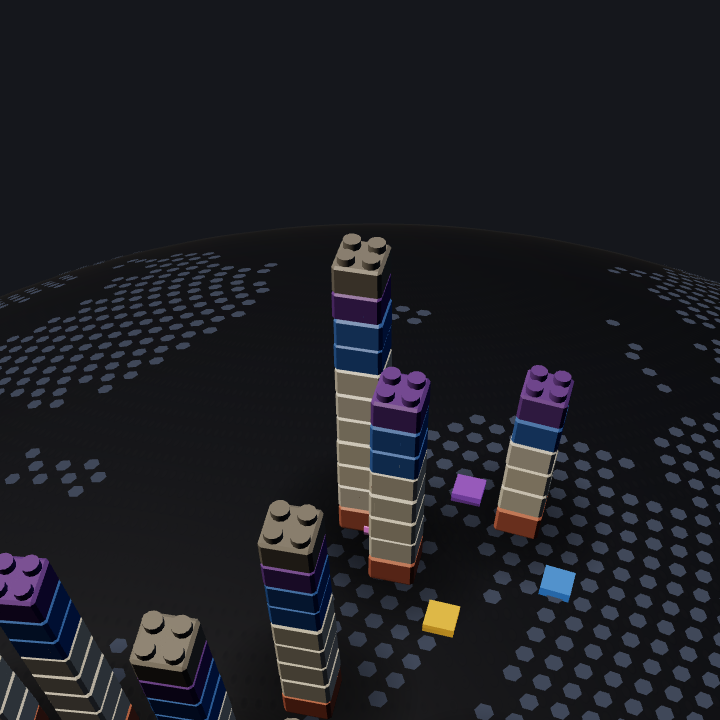
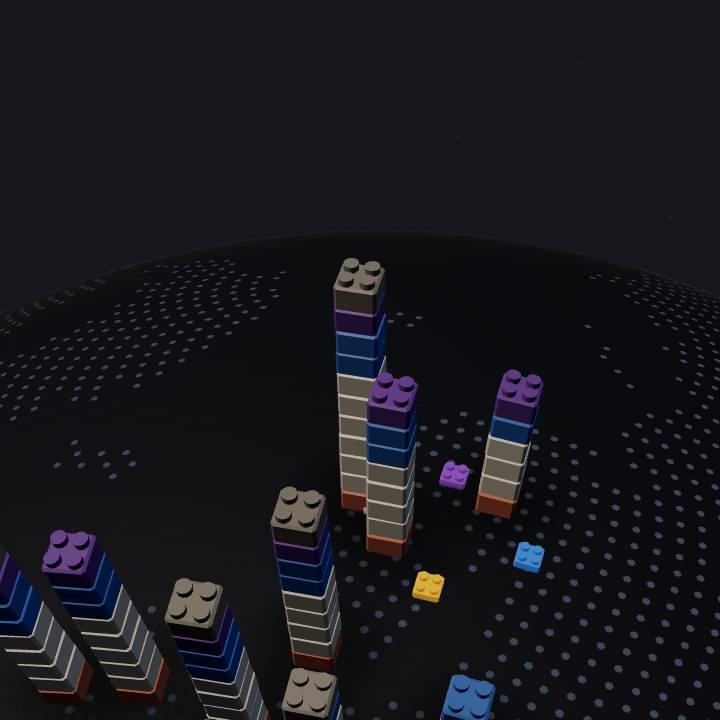
Studded data-centre bricks and a towers thumbnail on the intro
Data-centre bricks use the chamfered 2x2 geometry plus four studs (one extra
InstancedMesh sharing the material; the selection focus dims them too). The
intro shows a real view of the towers (assets/intro-towers.webp, 19 KB, from
the same capture as the OG card) and its byline names only the sources.

diff --git a/styles.css b/styles.css
@@ -235,8 +235,11 @@
   #intro{position:fixed;inset:0;z-index:20;display:flex;align-items:center;justify-content:center;overflow-y:auto;overscroll-behavior:contain;padding:12px 0;background:radial-gradient(ellipse at center,rgba(7,8,12,.55),rgba(7,8,12,.88));backdrop-filter:blur(2px);opacity:0;animation:introIn .6s var(--ease) .2s forwards;transition:opacity .4s var(--ease)}
   #intro.out{opacity:0!important;pointer-events:none}
   body.intro #title,body.intro #hint{opacity:0;transition:none}
-  .ibox{position:relative;max-width:720px;width:calc(100% - 48px);margin:auto;padding:34px 40px 26px;border:1px solid rgba(255,255,255,.16);border-radius:10px;background:#0b0b0d;box-shadow:0 30px 80px rgba(0,0,0,.6);text-align:left;overflow:hidden}
-  .ibox h2{font-size:clamp(40px,5.6vw,68px);line-height:.98;opacity:0;animation:rise .6s var(--ease) .4s forwards}
+  .ibox{position:relative;max-width:980px;width:calc(100% - 48px);margin:auto;padding:34px 40px 26px;padding-right:calc(40px + 300px);border:1px solid rgba(255,255,255,.16);border-radius:10px;background:#0b0b0d;box-shadow:0 30px 80px rgba(0,0,0,.6);text-align:left;overflow:hidden}
+  /* a real view of the towers, from the exhibit (rendered by tools/render-og.mjs), bleeding off the right edge */
+  .ibox .thumb{position:absolute;right:-70px;top:-40px;width:420px;height:420px;margin:0;pointer-events:none;opacity:0;animation:rise .8s var(--ease) .5s forwards;-webkit-mask:radial-gradient(circle at 50% 50%,#000 0 40%,rgba(0,0,0,.6) 58%,transparent 70%);mask:radial-gradient(circle at 50% 50%,#000 0 40%,rgba(0,0,0,.6) 58%,transparent 70%)}
+  .ibox .thumb img{width:100%;height:100%;object-fit:cover;display:block}
+  .ibox h2{font-size:clamp(40px,5.6vw,68px);line-height:.98;opacity:0;animation:rise .6s var(--ease) .4s forwards;position:relative}
   .ibox .hero{font-family:var(--serif);font-size:clamp(22px,2.5vw,31px);line-height:1.22;letter-spacing:0;margin:20px 0 0;color:var(--text);overflow-wrap:anywhere;opacity:0;animation:rise .6s var(--ease) .7s forwards}
   .ibox .hero b{font-weight:400;font-style:italic;color:#efe9d6}
   .ibox .hero a{color:var(--text);text-decoration:underline;text-decoration-color:rgba(255,255,255,.35);text-underline-offset:3px;text-decoration-thickness:1.5px;transition:text-decoration-color .2s}
@@ -253,7 +256,8 @@
   @keyframes introIn{to{opacity:1}}
   @keyframes shrink{to{transform:scaleX(0)}}
   @keyframes rise{from{opacity:0;transform:translateY(10px)}to{opacity:1;transform:none}}
-  @media (max-width:700px){ .ibox{padding:22px 22px 22px;width:calc(100% - 28px)} .ibox .lead{margin:14px 0 20px;padding-top:14px} .ibox .kicker span:last-child{display:none} }
+  @media (max-width:900px){ .ibox{padding-right:40px} .ibox .thumb{position:relative;right:auto;top:auto;width:calc(100% + 80px);height:170px;margin:-34px -40px 10px;-webkit-mask:linear-gradient(#000 55%,transparent);mask:linear-gradient(#000 55%,transparent)} .ibox .thumb img{object-position:50% 40%} }
+  @media (max-width:700px){ .ibox{padding:22px 22px 22px;width:calc(100% - 28px)} .ibox .thumb{width:calc(100% + 44px);margin:-22px -22px 8px;height:150px} .ibox .lead{margin:14px 0 20px;padding-top:14px} }
   @media (max-width:380px){ .ibox{padding:18px 16px 18px;width:calc(100% - 20px)} .ibox h2{font-size:36px} .ibox .hero{font-size:20px} .ibox .cta{gap:6px} #introGo{padding:10px 16px} .ibox .byline span:last-child{display:none} }
   @media (max-height:520px){ #intro{padding:8px 0} .ibox{width:calc(100% - 24px);padding:14px 22px 12px} .ibox .kicker{margin-bottom:10px;padding-bottom:8px} .ibox h2{font-size:30px} .ibox .hero{font-size:18px;margin-top:8px} .ibox .lead{font-size:14px;margin:8px 0 12px;padding-top:8px} .ibox .byline{margin-top:10px} }
   @media (prefers-reduced-motion:reduce){ #intro,.ibox .kicker,.ibox h2,.ibox .hero,.ibox .lead,.ibox .cta,.ibox .byline{animation:none;opacity:1} .ibar{display:none} }

diff --git a/js/scene.js b/js/scene.js
@@ -283,9 +283,13 @@ const setPowerMap = on => setLayer(on ? "power" : "none");
    (emissive comes from the instance colour, at most 0.3). No halos, no point lights. */
 const dcMat = new THREE.MeshStandardMaterial({roughness:0.4, metalness:0, roughnessMap: quality.tier === "high" ? noiseTex : null, flatShading: quality.tier === "low"});
 dcMat.onBeforeCompile = sh => { sh.fragmentShader = sh.fragmentShader.replace("#include <emissivemap_fragment>", "#include <emissivemap_fragment>\n#ifdef USE_COLOR\n totalEmissiveRadiance += vColor.rgb * 0.3;\n#endif"); };
+let dcStuds = null;   // four studs per data-centre brick, same material and colours (set below, once)
 const dcMesh = (() => {
-  const geo = new THREE.BoxGeometry(1,1,1); geo.translate(0,0.5,0);
+  const geo = chamferBox(0.07);
   const m = new THREE.InstancedMesh(geo, dcMat, DATA.datacentres.length);
+  const studGeoDC = new THREE.CylinderGeometry(1,1,1,12); studGeoDC.translate(0,0.5,0);
+  dcStuds = new THREE.InstancedMesh(studGeoDC, dcMat, DATA.datacentres.length*4); dcStuds.frustumCulled = false;
+  const SM = new THREE.Matrix4(), so = new THREE.Vector3(), ss = new THREE.Vector3(DC_BRICK.w*0.18, DC_BRICK.h*0.45, DC_BRICK.w*0.18), oo = DC_BRICK.w*0.25;
   const M = new THREE.Matrix4(), q = new THREE.Quaternion(), p = new THREE.Vector3(), s = new THREE.Vector3(DC_BRICK.w, DC_BRICK.h, DC_BRICK.d), up = new THREE.Vector3(0,1,0), col = new THREE.Color();
   // bricks that would sit inside their country's tower are nudged a step sideways (spread around it) so they stay visible and clickable
   const cent = new THREE.Vector3(), east = new THREE.Vector3(), north = new THREE.Vector3(), nrm = new THREE.Vector3(), off = new THREE.Vector3(), Y = new THREE.Vector3(0,1,0);
@@ -302,9 +306,11 @@ const dcMesh = (() => {
     }
     q.setFromUnitVectors(up, p.clone().normalize());
     M.compose(p, q, s); m.setMatrixAt(i, M); m.setColorAt(i, col.setHex(OPERATOR_COLOR[d.operator]).offsetHSL(0, 0.08, 0.02));
+    for (let j = 0; j < 4; j++){ so.set(j&1 ? oo : -oo, DC_BRICK.h, j&2 ? oo : -oo).applyQuaternion(q).add(p); SM.compose(so, q, ss); dcStuds.setMatrixAt(i*4+j, SM); dcStuds.setColorAt(i*4+j, col); }
     d._pos = p.clone();
   });
   m.instanceMatrix.needsUpdate = true; m.instanceColor.needsUpdate = true; world.add(m);
+  dcStuds.instanceMatrix.needsUpdate = true; dcStuds.instanceColor.needsUpdate = true; world.add(dcStuds);
   return m;
 })();
 
@@ -520,8 +526,8 @@ function targetBricks(t){
 const _dcc = new THREE.Color();
 function setDCFocus(list){
   const keep = list && list.length ? new Set(list) : null;
-  DATA.datacentres.forEach((d, i) => { _dcc.setHex(OPERATOR_COLOR[d.operator]).offsetHSL(0, 0.08, 0.02); if (keep && !keep.has(d)) _dcc.multiplyScalar(0.35); dcMesh.setColorAt(i, _dcc); });
-  dcMesh.instanceColor.needsUpdate = true;
+  DATA.datacentres.forEach((d, i) => { _dcc.setHex(OPERATOR_COLOR[d.operator]).offsetHSL(0, 0.08, 0.02); if (keep && !keep.has(d)) _dcc.multiplyScalar(0.35); dcMesh.setColorAt(i, _dcc); for (let j = 0; j < 4; j++) dcStuds.setColorAt(i*4+j, _dcc); });
+  dcMesh.instanceColor.needsUpdate = true; dcStuds.instanceColor.needsUpdate = true;
 }
 /* city towers: thin towers at a country's main cities, same height scale as country towers */
 const _cup = new THREE.Vector3(0,1,0), _ctmp = new THREE.Vector3(), _Z = new THREE.Matrix4().makeScale(0,0,0);

diff --git a/index.html b/index.html
@@ -138,11 +138,12 @@
 
 <div id="intro" role="dialog" aria-label="Welcome">
   <div class="ibox">
+    <figure class="thumb" aria-hidden="true"><img src="assets/intro-towers.webp" width="720" height="720" alt="" loading="eager" decoding="async"></figure>
     <h2>Who gets to <i>build</i> with AI?</h2>
     <p class="hero" id="heroStat">A $20 AI subscription costs <b>0.3%</b> of monthly income per person in <a href="?country=NO" data-iso="NO">Norway</a> and <b>29.7%</b> in <a href="?country=CD" data-iso="CD">DR Congo</a>. <a class="src" id="heroSrc" href="?panel=methodology" title="How this is worked out">source</a></p>
     <p class="lead">Every tower is a country. Height is how much people there use AI. Colour is whose models they're using. Glowing bricks are data centres.</p>
     <div class="cta"><button class="btn primary" id="introGo">See where you stand →</button><button class="btn ghost" id="introExplore">or explore the globe</button></div>
-    <div class="byline"><span>Tessa Verster</span><span>World Bank · Cable.co.uk · Anthropic Economic Index</span></div>
+    <div class="byline"><span>Sources</span><span>World Bank · Cable.co.uk · Anthropic Economic Index</span></div>
   </div>
 </div>
 

diff --git a/CLAUDE.md b/CLAUDE.md
@@ -8,8 +8,8 @@ Static, no-build exhibit deployed by GitHub Pages from `main` (custom domain in 
 
 ## 2. 3D rendering and the camera
 - `js/scene.js` owns everything Three.js: renderer, scene, `camera` (PerspectiveCamera, fov 38) and the `world` group that rotates.
-- Look: a hand-built tabletop model. Baseplate = deep blue-charcoal sphere (`plateMat`, #272b34) with a 512² canvas stud texture as roughness + faint bump; land = one InstancedMesh of 12,000 flat hexagonal discs (`landDots`, positions from `LAND_MASK`, 2° cells) whose colour skins the data layers (`LAYERS`, `setLayer` → `applySkin`) swap with setColorAt on toggle only; background clear colour `#15171c`, no starfield; a faint warm rim shader. Lighting: one warm key directional + one cool hemisphere, no shadows, no post-processing.
-- Towers: discrete 2×2 bricks, one instance each (`BRICKS_PER_INDEX_POINT` = MAX_BRICKS/100), chamfered geometry from `chamferBox()` (44 triangles), `brickMat` MeshStandardMaterial roughness 0.45 with a 256² noise roughnessMap on the high tier. Two InstancedMeshes (`bricks`, `studs`) shared by countries, continents and six city slots (`towers`, `cityTowers`); `writeTower` applies seeded per-brick jitter (rotation ±0.6°, offset ±1.5%, cumulative lean ≤1°, 1-in-40 proud) and `paintTower` the ±3% L / ±2% S colour variance; `stepTowers` animates with `easePlastic` (4% overshoot). `contact` is an InstancedMesh of soft dark discs under towers (fake contact shadow; spare instances reserved for arc caps). Data centres: InstancedMesh `dcMesh` with `dcMat` (emissive 0.3 from the instance colour). Arcs: `js/arcs.js` (`createArcs`) draws each route as a solid plastic tube: a Line2 from the vendored fat-line addons (`js/vendor/three-fatlines.js`, global-THREE build of three r160's examples/jsm/lines) in the operator colour at 3 px desktop / 4 px phone (`worldUnits:false`, resolution set in `resize()`), over a black outline Line2 and under a dashed seam whose `dashOffset` moves once per frame (frozen for reduced motion and on the low tier); end caps are spare `contact` instances tinted to the operator. Curve maths is pure in `js/arcMath.js` (`arcPoints`, tested by `tools/arcs.test.mjs`). Draw-in 400 ms via `instanceCount`, fade-out 180 ms, hover on a data-centre brick highlights its arc (`arcsCtl.highlight`, fine pointers). HTML labels in `#arcLabels` ride on the far end of each arc (operator · city · why, or the country name) with an italic caption at the start; hidden behind the horizon and under the panel/sheet. The thin off-white selection `ring` completes the scene.
+- Look: a hand-built tabletop model. Baseplate = deep blue-charcoal sphere (`plateMat`, #272b34) with a 512² canvas stud texture as roughness + faint bump; land = one InstancedMesh of 12,000 flat hexagonal discs (`landDots`, positions from `LAND_MASK`, 2° cells) whose colour skins the data layers (`LAYERS`, `setLayer` → `applySkin`) swap with setColorAt on toggle only; background clear colour `#15171c`, a faint star field with a milky-way band (three Points draw calls), a faint warm rim shader. Lighting: one warm key directional + one cool hemisphere, no shadows, no post-processing.
+- Towers: discrete 2×2 bricks, one instance each (`BRICKS_PER_INDEX_POINT` = MAX_BRICKS/100), chamfered geometry from `chamferBox()` (44 triangles), `brickMat` MeshStandardMaterial roughness 0.45 with a 256² noise roughnessMap on the high tier. Two InstancedMeshes (`bricks`, `studs`) shared by countries, continents and six city slots (`towers`, `cityTowers`); `writeTower` applies seeded per-brick jitter (rotation ±0.6°, offset ±1.5%, cumulative lean ≤1°, 1-in-40 proud) and `paintTower` the ±3% L / ±2% S colour variance; `stepTowers` animates with `easePlastic` (4% overshoot). `contact` is an InstancedMesh of soft dark discs under towers (fake contact shadow; spare instances reserved for arc caps). Data centres: InstancedMesh `dcMesh` (chamfered 2×2 brick) plus `dcStuds` (4 studs each) with `dcMat` (emissive 0.3 from the instance colour). Arcs: `js/arcs.js` (`createArcs`) draws each route as a solid plastic tube: a Line2 from the vendored fat-line addons (`js/vendor/three-fatlines.js`, global-THREE build of three r160's examples/jsm/lines) in the operator colour at 3 px desktop / 4 px phone (`worldUnits:false`, resolution set in `resize()`), over a black outline Line2 and under a dashed seam whose `dashOffset` moves once per frame (frozen for reduced motion and on the low tier); end caps are spare `contact` instances tinted to the operator. Curve maths is pure in `js/arcMath.js` (`arcPoints`, tested by `tools/arcs.test.mjs`). Draw-in 400 ms via `instanceCount`, fade-out 180 ms, hover on a data-centre brick highlights its arc (`arcsCtl.highlight`, fine pointers). HTML labels in `#arcLabels` ride on the far end of each arc (operator · city · why, or the country name) with an italic caption at the start; hidden behind the horizon and under the panel/sheet. The thin off-white selection `ring` completes the scene.
 - Quality tiers: `quality.tier` "high"/"low" chosen at boot in scene.js (phone-like viewport, ≤4 cores, or `?quality=`), and `js/main.js` drops to "low" if the first 60 frames average under 50 fps; `setQuality()` removes the roughness/bump maps and flat-shades the bricks. Picking code is untouched by any of this (jitter is baked into the instance matrices it reads).
 - Tools: `tools/perf-profile.mjs` (4x CPU, 390×844, draw calls / triangles / textures per scenario), `tools/view-shots.mjs` (default / Europe / Africa at desktop and phone, `--quality=`), `tools/palette-check.mjs` (ΔE incl. deuteranopia). `tools/arc-shots.mjs` (ZA and US selected, desktop/phone), `tools/arc-contrast.mjs` (operator colours vs plate/discs/bricks). All need `?debug` (sets `window.__exhibit`).
 - Camera: `view` (in `js/state.js`) holds yaw/pitch/dist/pan and their targets; `applyView()` writes them to the world quaternion and camera position each frame; `resize()` uses `camera.setViewOffset` to centre the globe beside the side panel or above the open bottom sheet; `flyTo(ref, dist, towerLen)` targets a tower; `zoomAt`, `panBy`, `resetView` are the other movers. The frame loop in `js/main.js` eases `view` towards its targets and auto-rotates after 3 s idle.
@@ -39,7 +39,7 @@ Static, no-build exhibit deployed by GitHub Pages from `main` (custom domain in 
 
 ## 7. Styling
 - Tokens on `:root` in `styles.css`: `--bg #15171c`, `--panel`, `--line`, `--fill`, `--text #f5f5f7`, `--muted`, `--accent` (monochrome; no yellow accent), `--ease`, `--panel-w 420px`, plus `--c-*` provider and `--o-*` operator colours, which mirror the ABS-plastic palette in `js/colors.js` (off-white #ece7dc for OpenAI, desaturated hues, warm grey for Local; weakest deuteranopia pair ΔE ≈ 12).
-- Type: editorial pairing after every.to. Big titles (`#title h1`, intro `h2`, card `h2`) in Instrument Serif (Google Fonts, `--serif`, italic emphasis on one word), labels/kickers/bylines in small tracked uppercase system sans (`--sans`), dashed rules (`--rule`). The intro box is near-black (#0b0b0d), square-cornered (10px), with kicker, dashed rules, cream CTA. Everything else stays on the system sans stack. Panels are frosted glass (`backdrop-filter: var(--glass)`), 18px radii, 1px `--line` borders. Phone layout (`max-width:900px portrait` or `max-width:600px`) turns the panel into a bottom sheet.
+- Type: editorial pairing after every.to. Big titles (`#title h1`, intro `h2`, card `h2`) in Instrument Serif (Google Fonts, `--serif`, italic emphasis on one word), labels/kickers/bylines in small tracked uppercase system sans (`--sans`), dashed rules (`--rule`). The intro box is near-black (#0b0b0d), square-cornered (10px), with a towers thumbnail (`assets/intro-towers.webp`, written by tools/render-og.mjs; right-bleed on desktop, banner on phones), dashed rules, cream CTA and a sources byline. Everything else stays on the system sans stack. Panels are frosted glass (`backdrop-filter: var(--glass)`), 18px radii, 1px `--line` borders. Phone layout (`max-width:900px portrait` or `max-width:600px`) turns the panel into a bottom sheet.
 
 ## Testing
 - `NODE_PATH=<dir with puppeteer> node tools/behaviour-check.js out.json [baseline.json]` snapshots the UI (intro, ZA card values, tabs, layers, resetView, `?nointro`) and diffs against a baseline. Use it before and after any refactor.
